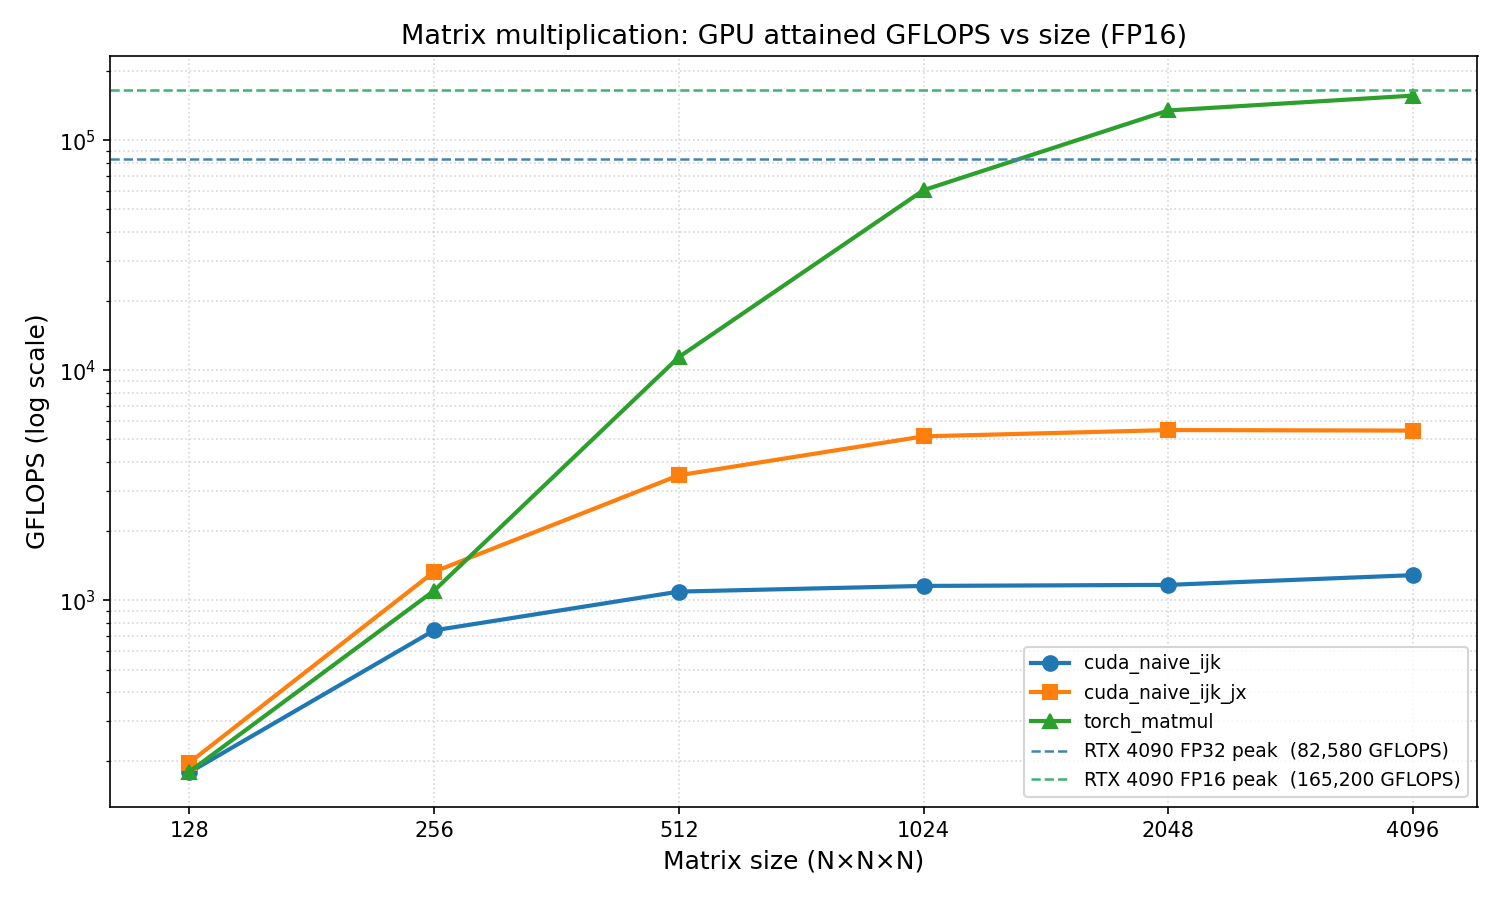
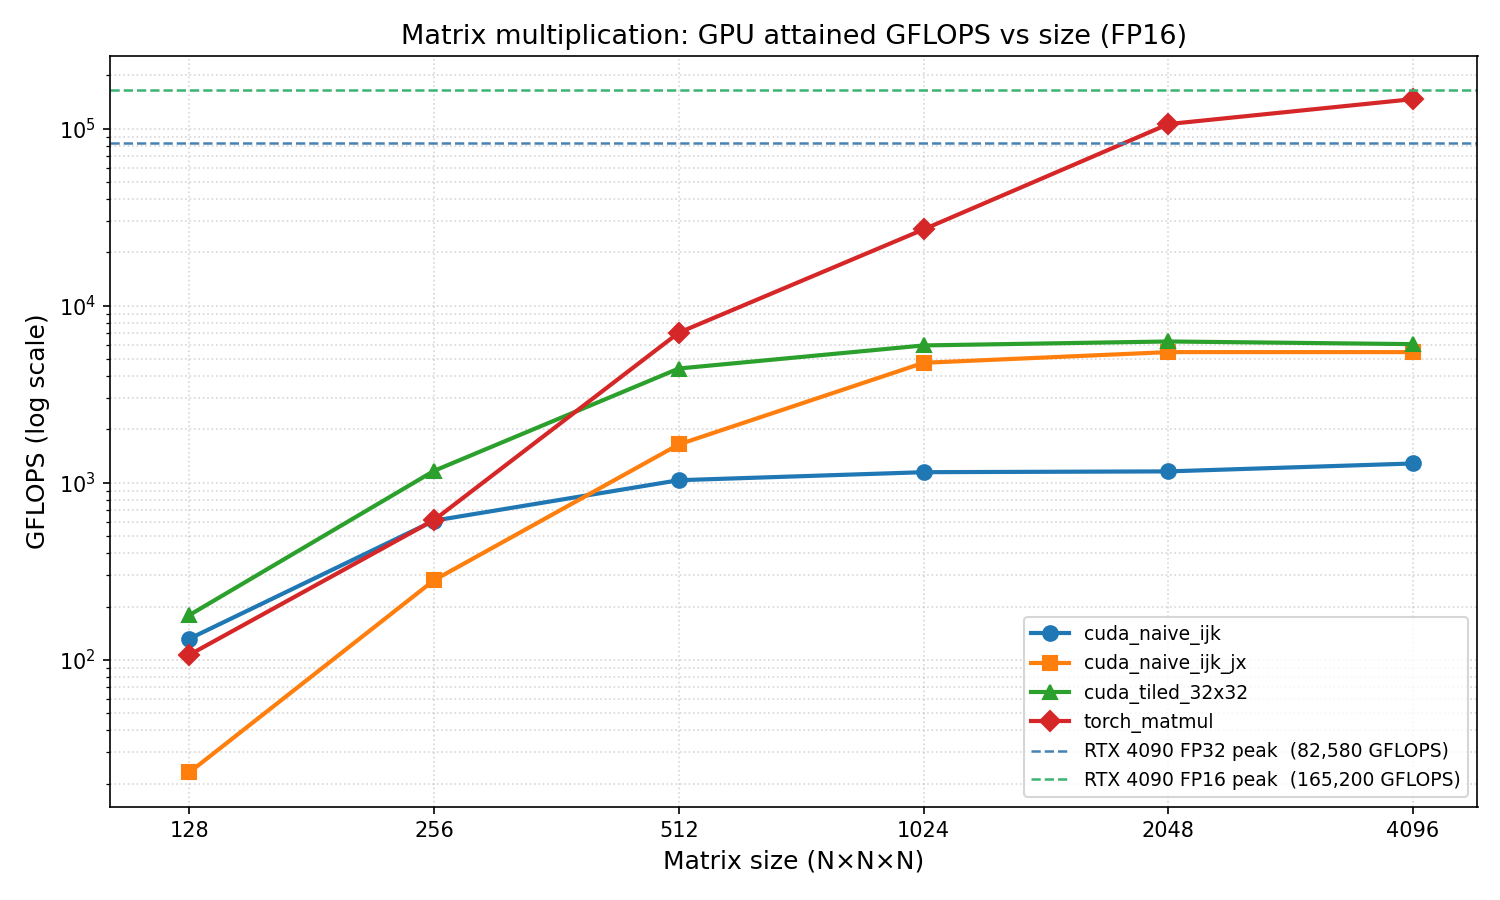
Add tiled 32x32 CUDA matmul implementation with shared memory
- Implement cuda_tiled_32x32: processes K dimension in 32-element tiles
- Each iteration loads 32x32 slice of A and B into shared memory
- Each thread (i,j) maintains running sum across all K-tile iterations
- 32x32 thread blocks for full tile utilization
- Shared memory reduces global memory pressure and improves bandwidth

Performance at 4096^3:
- torch_matmul (cuBLAS): 146,944 GFLOPS
- cuda_tiled_32x32: 6,069 GFLOPS (+11% vs naive_ijk_jx)
- cuda_naive_ijk_jx: 5,471 GFLOPS
- cuda_naive_ijk: 1,285 GFLOPS

Tiling is a fundamental GPU optimization: blocking global memory access
patterns to exploit shared memory locality improves performance substantially
over purely global memory naive approaches.

diff --git a/mymatmul/gpu/matmul_cuda.py b/mymatmul/gpu/matmul_cuda.py
@@ -22,3 +22,15 @@ def matmul_cuda_naive_ijk_jx(A_gpu, B_gpu):
     """
     from . import _matmul_cuda_ext
     return _matmul_cuda_ext.matmul_cuda_naive_ijk_jx(A_gpu, B_gpu)
+
+
+def matmul_cuda_tiled_32x32(A_gpu, B_gpu):
+    """Tiled CUDA matmul: 32x32 tiles with shared memory.
+    Processes K dimension in 32-element tiles, loading into shared memory.
+    Each thread (i,j) maintains its own running sum across all K-tiles.
+
+    Assumes A_gpu and B_gpu are already on GPU.
+    Returns result as GPU tensor.
+    """
+    from . import _matmul_cuda_ext
+    return _matmul_cuda_ext.matmul_cuda_tiled_32x32(A_gpu, B_gpu)

diff --git a/benchmarks/bench_gpu.py b/benchmarks/bench_gpu.py
@@ -15,6 +15,7 @@ IMPLEMENTATIONS = {
     "torch_matmul": ("mymatmul.gpu.matmul_torch.matmul_torch",   None),
     "cuda_naive_ijk": ("mymatmul.gpu.matmul_cuda.matmul_cuda_naive_ijk", None),
     "cuda_naive_ijk_jx": ("mymatmul.gpu.matmul_cuda.matmul_cuda_naive_ijk_jx", None),
+    "cuda_tiled_32x32": ("mymatmul.gpu.matmul_cuda.matmul_cuda_tiled_32x32", None),
 }
 
 SIZES = [64, 128, 256, 512, 1024, 2048, 4096]
